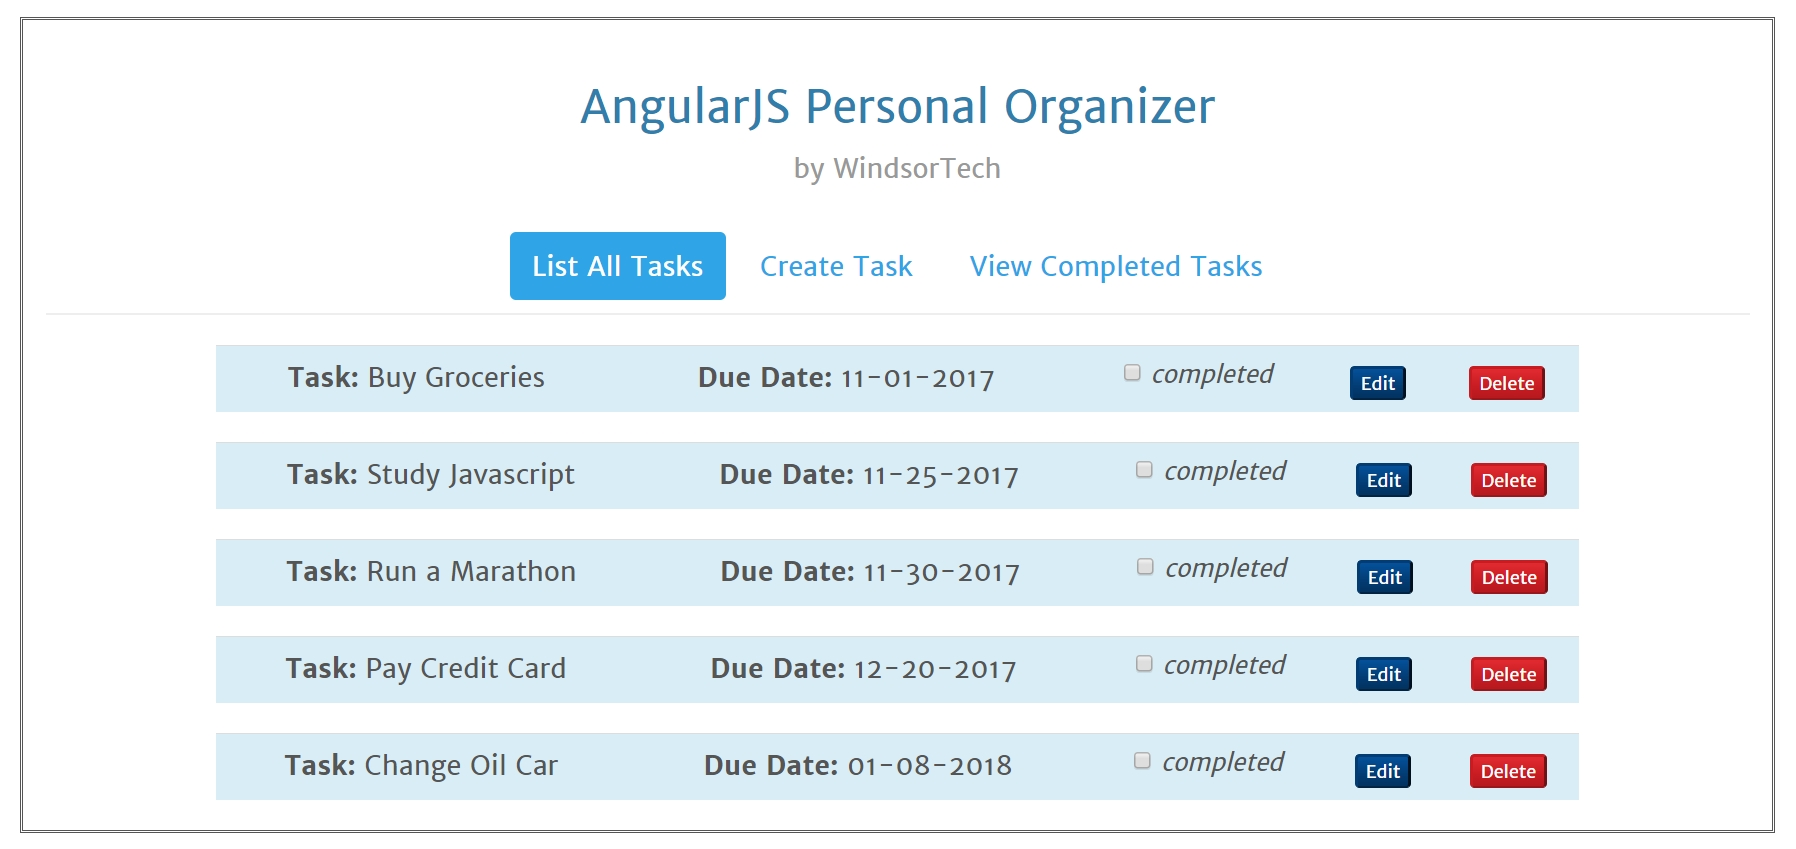
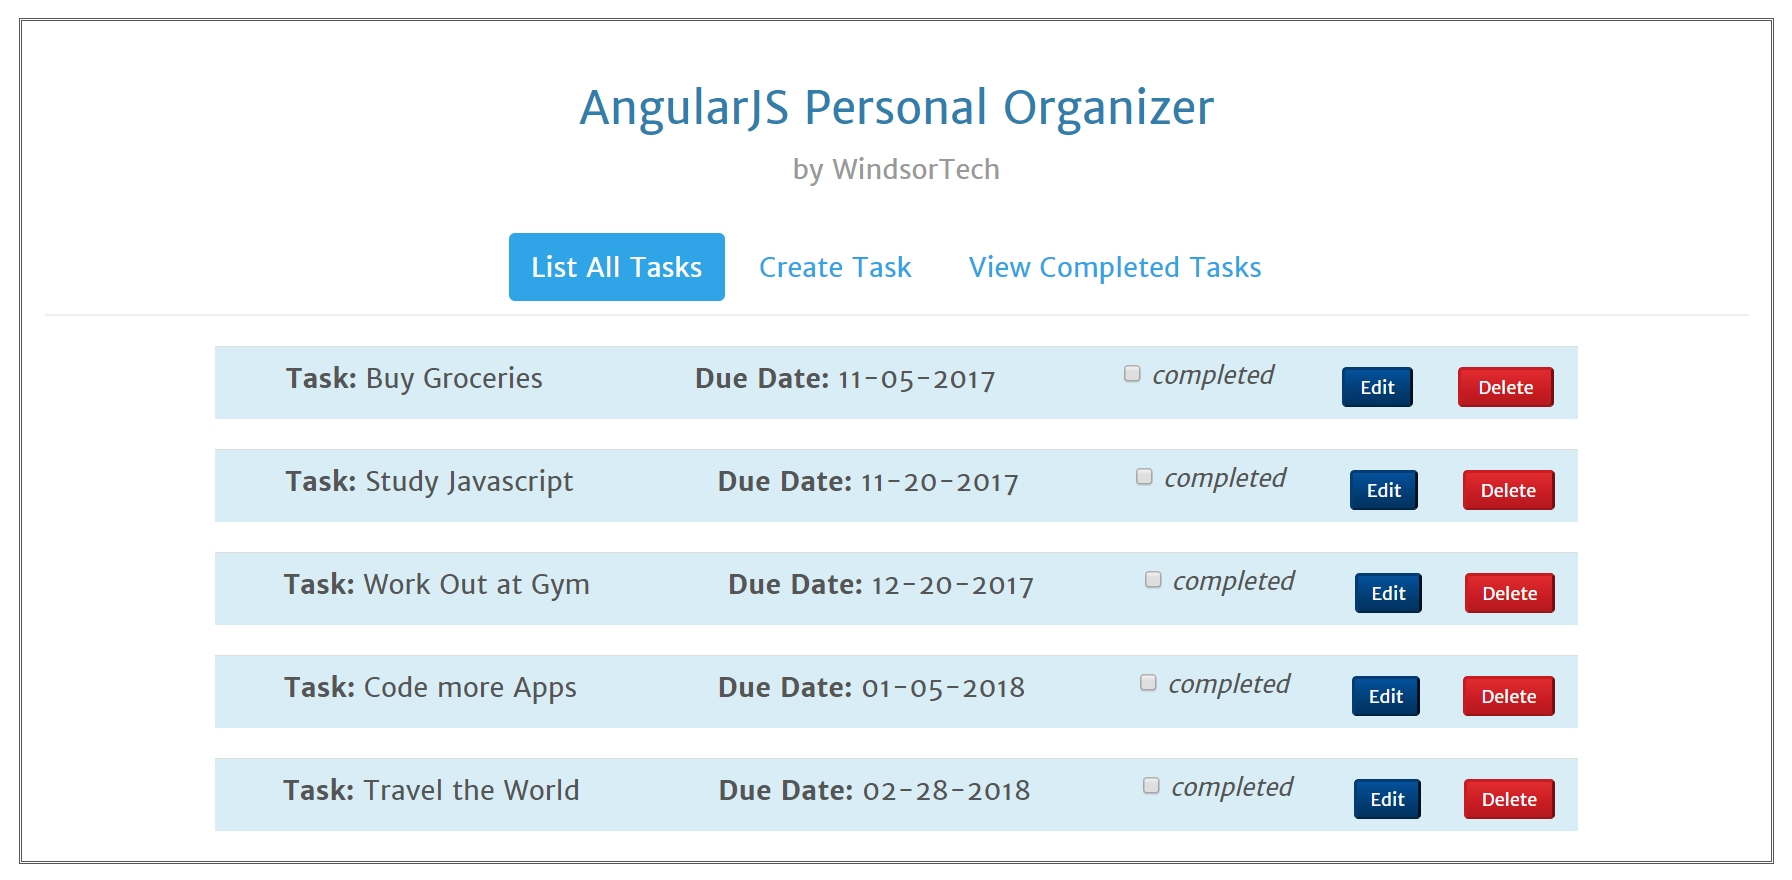
updates

diff --git a/app/todoList/features/components/taskContent/taskContent.html b/app/todoList/features/components/taskContent/taskContent.html
@@ -22,10 +22,10 @@
 
       <b>Due Date:</b> <input type="date" class="edit-date" ng-model="TaskContentVM.taskData.date">
 
-      <button class="btn-xs btn-success btn-save" ng-click="TaskContentVM.taskData.edit=false;TaskContentVM.updateTask(TaskContentVM.taskData._id);TaskContentVM.reloadView()">Save Task</button>
+      <button class="btn-xs btn-success btn-save edit-btn" ng-click="TaskContentVM.taskData.edit=false;TaskContentVM.updateTask(TaskContentVM.taskData._id);TaskContentVM.reloadView()">Save Task</button>
 
     
-      <button type="button" class="btn-xs btn-warning" ng-click="TaskContentVM.taskData.edit=false;TaskContentVM.reloadView()">Cancel</button>
+      <button type="button" class="btn-xs btn-warning edit-btn" ng-click="TaskContentVM.taskData.edit=false;TaskContentVM.reloadView()">Cancel</button>
     </td>
 
   </tr>

diff --git a/app/todoList/layout/assets/styles/layout.css b/app/todoList/layout/assets/styles/layout.css
@@ -49,6 +49,7 @@ ul {
     margin-top: 10px;
 }
 
+
 input {
     text-align: center;
     font-size: 16px;
@@ -56,6 +57,16 @@ input {
 
 button {
     margin-top: 5px;
+}
+
+.btn-xs {
+    width: 80%;
+    padding-top: 3px;
+    padding-bottom: 3px;
+}
+
+.edit-btn {
+    width: 9%;  
 }
 
 .info {
